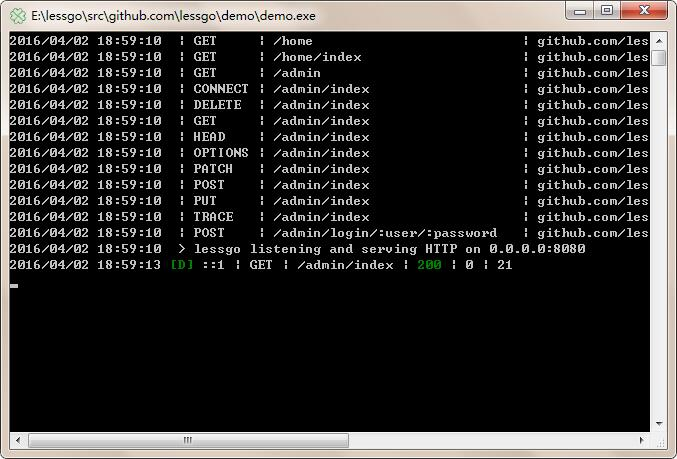
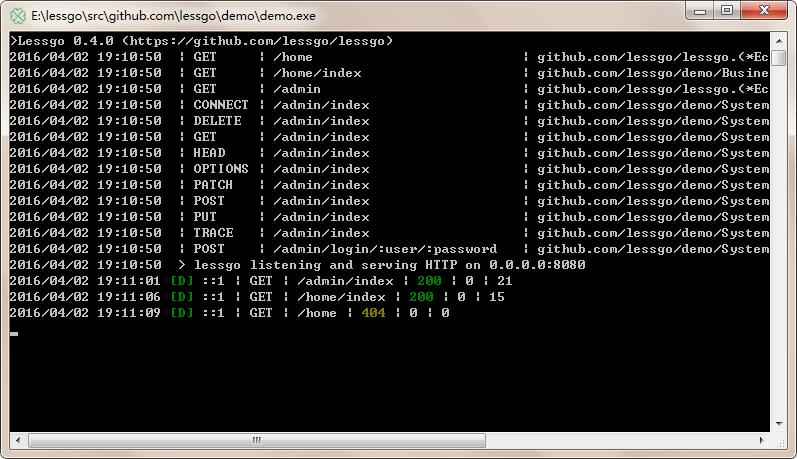
增加版本提示信息

Changed region(s): [[0.0, 0.0, 1.0, 1.0], [0.4963, 0.9455, 0.6204, 0.976], [0.3102, 0.9455, 0.3412, 0.976]]

diff --git a/lessgo.go b/lessgo.go
@@ -1,6 +1,7 @@
 package lessgo
 
 import (
+	"fmt"
 	"net"
 	"time"
 
@@ -15,8 +16,15 @@ type (
 	NewServer func(engine.Config) engine.Server
 )
 
+const (
+	NAME    = "Lessgo"
+	VERSION = "0.4.0"
+	ADDRESS = "https://github.com/lessgo/lessgo"
+)
+
 var (
 	DefLessgo = func() *Lessgo {
+		printInfo()
 		registerConfig()
 		registerMime()
 		l := &Lessgo{
@@ -67,4 +75,8 @@ func checkHooks(err error) {
 		return
 	}
 	DefLessgo.Echo.Logger().Fatal("%v", err)
+}
+
+func printInfo() {
+	fmt.Printf(">%s %s (%s)\n", NAME, VERSION, ADDRESS)
 }
